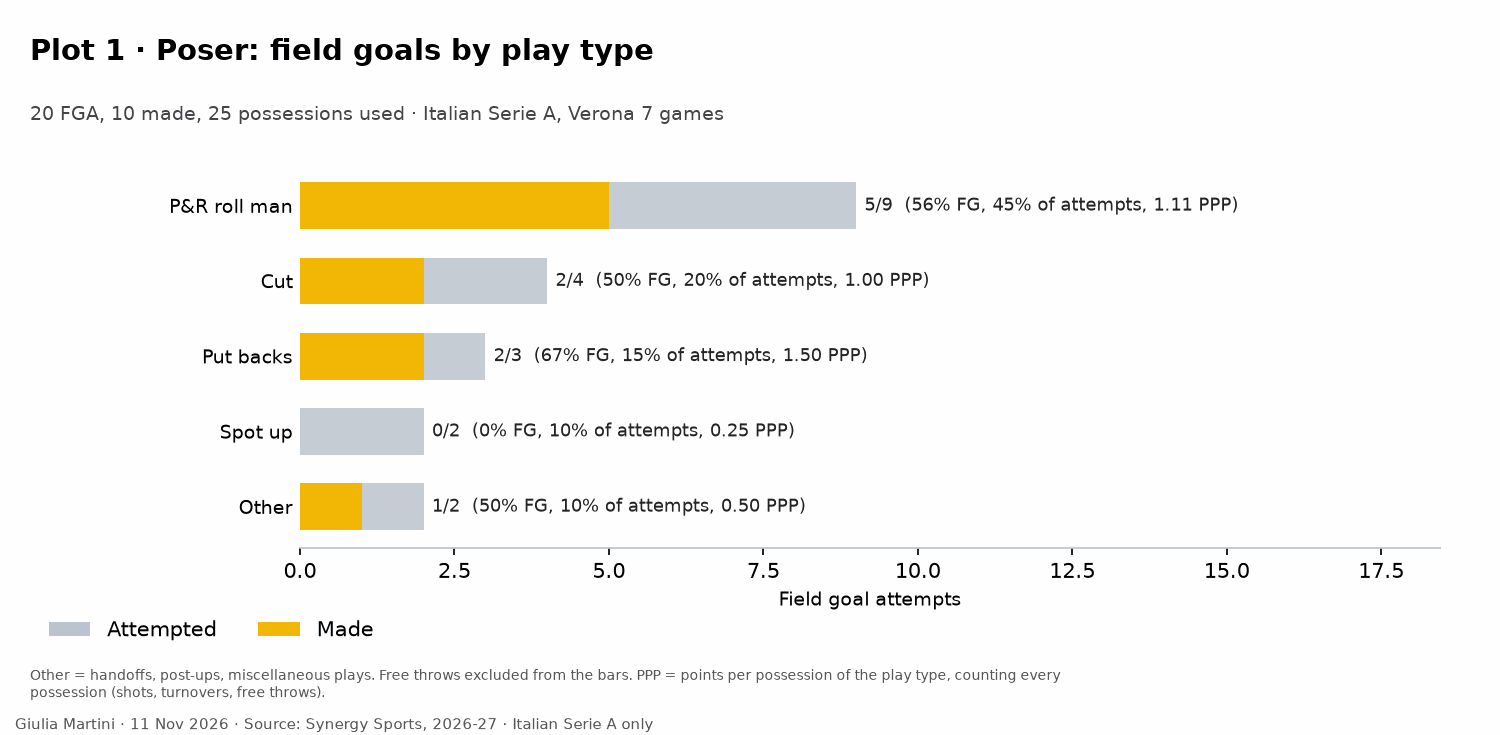
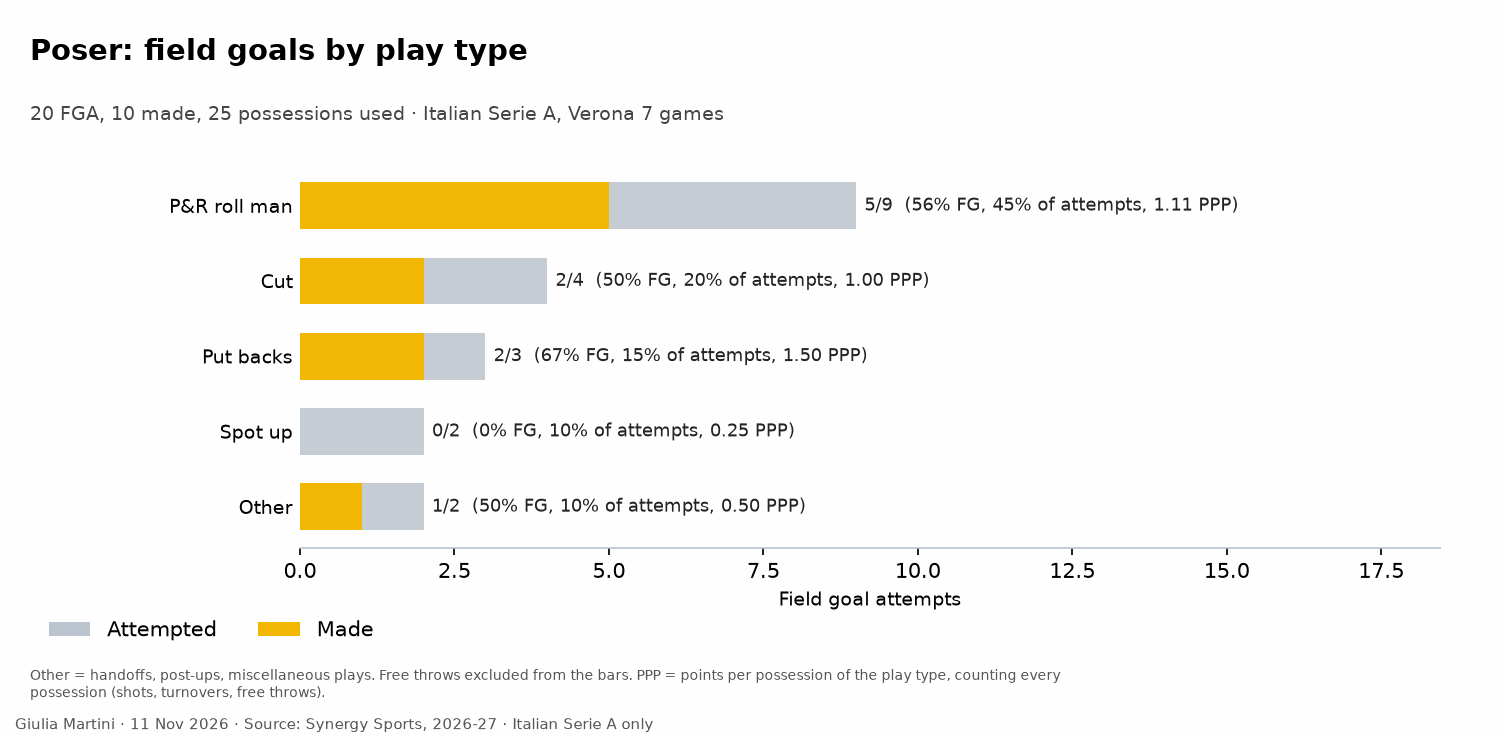
Name the figures instead of numbering them; methodology links above each figure
- Remove "Plot 1" and "Plot 2" from the figure titles, notes, docstrings and pages
- Methodology: a sentence with a link to the Verona page and section above each dummy figure
- opponent-analysis skill: every new figure type gets a Methodology section with links both ways, and no "plot N" naming

Changed region(s): [[0.0307, 0.0299, 0.4293, 0.0898]]

diff --git a/notebooks/synergy_scouting_plots.py b/notebooks/synergy_scouting_plots.py
@@ -12,9 +12,9 @@ the opponent (the team being scouted) is drawn in navy, the reference team (the 
   02   opponent play types run / faced
   03   offensive PPP by play type, reference team vs opponent
   04   opponent players, possessions used vs eFG% (number in bubble = points per game)
-  05   plot 1, one figure per player: FG made/attempted by play type (05_player_<name>_shot_profile.png)
-  05c  plot 2, for the players who together use DEEP_POSS_SHARE of the roster's possessions: shot types within their
-       DEEP_PLAYTYPES main play types (05c_player_<name>_shot_types.png); green, to mark it as the zoom of plot 1
+  05   field goals by play type, one figure per player: FG made/attempted by play type (05_player_<name>_shot_profile.png)
+  05c  shot types within the main play types, for the players who together use DEEP_POSS_SHARE of the roster's possessions: shot types within their
+       DEEP_PLAYTYPES main play types (05c_player_<name>_shot_types.png); green, to mark it as the deeper look at 05
   05b  player radars, percentile rank within the opponent's roster
   06   possessions used by play type, per player
   07   lineups: usage vs points per possession
@@ -58,7 +58,7 @@ from matplotlib.transforms import Bbox
 ROOT = Path(__file__).resolve().parents[1]
 # Colours: this report uses its own two-team scheme (opponent navy, reference yellow), not lba_style's gold.
 YELLOW, NAVY, GREY = '#F2B705', '#1F3A5F', '#8A8F98'
-DEEP = '#2E7D6B'   # plot 2 (the deeper look at plot 1) is green; plot 1 is navy / yellow
+DEEP = '#2E7D6B'   # the shot types figure (05c, the deeper look at 05) is green; 05 is navy / yellow
 SPINE = '#BBBBBB'
 INK, INK_2, INK_3, INK_4, INK_5, INK_6 = '#222', '#333', '#444', '#555', '#666', '#777'   # text greys, dark to light
 LEADER_LINE = '#999'      # leader lines of placed labels
@@ -70,8 +70,8 @@ MIN_PLAYTYPE_POSS = 10      # play types with fewer possessions are left off fig
 MIN_PLAYER_POSS = 20        # players shown in the volume-vs-efficiency scatter (04)
 MIN_RADAR_POSS = 25         # players with a roster-percentile radar (05b)
 MIN_MIX_POSS = 25           # players in the play-type mix bars (06)
-DEEP_POSS_SHARE = 0.80      # plot 2 (05c) is drawn for the fewest players who together use this share of the roster's possessions ...
-OTHER_PLAYTYPES = ('Handoffs', 'Post-Up', 'Miscellaneous Plays')   # Synergy play types that plot 1 groups as 'Other'
+DEEP_POSS_SHARE = 0.80      # the shot types figure (05c) is drawn for the fewest players who together use this share of the roster's possessions ...
+OTHER_PLAYTYPES = ('Handoffs', 'Post-Up', 'Miscellaneous Plays')   # Synergy play types that the play-type figure (05) groups as 'Other'
 DEEP_PLAYTYPES = 2          # ... and covers this many of their play types (the ones with most attempts)
 DEFAULT_LINEUP_MIN_POSS = 5   # default for config 'lineup_min_poss'
 MIN_STYLE_POSS = 10         # lineups shown in the style profile (09)
@@ -392,13 +392,13 @@ def pt_label(play_type: str) -> str:
 
 
 def draw_playtype_bars(ax: Axes, rows: Sequence[tuple], zoom: int = 0) -> None:
-    """Plot 1: made (solid) over attempted (pale) field goals per play type, most attempts on top, with the points per possession in the label.
+    """Field goals by play type: made (solid) over attempted (pale) field goals per play type, most attempts on top, with the points per possession in the label.
 
     Args:
         ax: Axes to draw on.
         rows: ``(play type label, attempts, made)`` or ``(label, attempts, made, points per possession)`` per play type,
             in any order. The PPP, when given, is written at the end of the label.
-        zoom: Number of top play types that plot 2 looks into; their bars get the plot-2 colour edge and a tag.
+        zoom: Number of top play types that the shot types figure looks into; their bars get its colour (green) as edge and label.
     """
     d = sorted(rows, key=lambda r: -r[1])
     total = max(sum(r[1] for r in d), 1)
@@ -431,7 +431,7 @@ def ppp_by_playtype(po: pd.DataFrame, player: str) -> dict[str, float]:
 
 
 def draw_shottype_panel(ax: Axes, rows: Sequence[tuple[str, int, int]], title: str) -> None:
-    """Plot 2 panel: made (dark) over attempted (pale) field goals per shot type within one play type.
+    """Shot types panel: made (dark) over attempted (pale) field goals per shot type within one play type.
 
     Args:
         ax: Axes to draw on.
@@ -460,7 +460,7 @@ def key_players(b: pd.DataFrame) -> list[str]:
 
 
 def plot05(c: Ctx, b: pd.DataFrame) -> None:
-    """Figures 05 and 05c: per player, plot 1 (FG by play type) and, for the key players, plot 2 (shot types of the top play types)."""
+    """Figures 05 and 05c: per player, field goals by play type and, for the key players, shot types within their top play types."""
     # REVIEW: needs Synergy-extracted CSVs (see module docstring); check the data before using the figure.
     zp = c.read('opp_players_fg_by_zone_and_playtype.csv')
     st = c.read('opp_players_shottype_within_playtype.csv')
@@ -488,13 +488,13 @@ def plot05(c: Ctx, b: pd.DataFrame) -> None:
         fig = plt.figure(figsize=(10, height))
         ax = fig.add_axes([.2, 1.25 / height, .76, (height - 2.35) / height])
         draw_playtype_bars(ax, rows, zoom)
-        fig.text(.02, 1 - .4 / height, f'Plot 1 · {p}: field goals by play type', fontsize=14, fontweight='bold', ha='left')
+        fig.text(.02, 1 - .4 / height, f'{p}: field goals by play type', fontsize=14, fontweight='bold', ha='left')
         fig.text(.02, 1 - .8 / height, sub, fontsize=9, color=INK_3)
         fig.legend(handles=[Patch(fc=NAVY, alpha=.3, label='Attempted'), Patch(fc=YELLOW, alpha=.9, label='Made')],
                    loc='lower left', ncol=2, frameon=False, bbox_to_anchor=(.02, .5 / height))
         note = ('Other = handoffs, post-ups, miscellaneous plays. Free throws excluded from the bars. PPP = points per possession of the '
                 'play type, counting every possession (shots, turnovers, free throws).'
-                + (f' Green outline: the {zoom} main play types, detailed in plot 2.' if zoom else ''))
+                + (f' Green outline: the {zoom} main play types, detailed in the shot types figure.' if zoom else ''))
         fig.text(.02, .45 / height, textwrap.fill(note, width=150), fontsize=6.8, color=INK_4, va='top')
         c.foot(fig, f'{c.comp} only')
         c.save(fig, f'05_player_{fname}_shot_profile.png', dpi=150)
@@ -508,9 +508,9 @@ def plot05(c: Ctx, b: pd.DataFrame) -> None:
         for ax, k in zip(axs[0], top):
             d = shot[k]
             draw_shottype_panel(ax, d, f"{pt_label(k[1])}\n({sum(x[1] for x in d)} attempts; made/attempted)")
-        fig.text(.02, .955, f'Plot 2 · {p}: shot types within his main play types', fontsize=14, fontweight='bold', ha='left',
+        fig.text(.02, .955, f'{p}: shot types within his main play types', fontsize=14, fontweight='bold', ha='left',
                  color=DEEP)
-        fig.text(.02, .895, f'Deeper look at plot 1: his {n} play types with most attempts · {sub}', fontsize=9, color=INK_3)
+        fig.text(.02, .895, f'Deeper look at the field goals by play type: his {n} play types with most attempts · {sub}', fontsize=9, color=INK_3)
         fig.legend(handles=[Patch(fc=DEEP, alpha=.3, label='Attempted'), Patch(fc=DEEP, label='Made')],
                    loc='lower left', ncol=2, frameon=False, bbox_to_anchor=(.02, .045))
         fig.text(.02, .03, f"Drawn for the players who together use {DEEP_POSS_SHARE:.0%} of the roster's possessions; small samples.",

diff --git a/notebooks/methodology_figures.py b/notebooks/methodology_figures.py
@@ -4,8 +4,8 @@
 
 Writes into weekly/assets/methodology/ (copied to docs/assets by build_site.py):
   triangle_dummy.png     how to read the shot-selection triangles (tendency_triangles.py)
-  playtype_dummy.png     how to read plot 1, field goals by play type (synergy_scouting_plots.py, 05_player_*)
-  shottype_dummy.png     how to read plot 2, shot types within the main play types (05c_player_*)
+  playtype_dummy.png     how to read the field goals by play type figure (synergy_scouting_plots.py, 05_player_*)
+  shottype_dummy.png     how to read the shot types figure (05c_player_*)
   energy_dummy.png       how to read the energy indices (energy_indices.py)
   energy_build_dummy.png how a score is built from its components and shrunk by minutes
 """
@@ -66,16 +66,16 @@ def triangle(out: Path) -> None:
 
 
 def playtype(out: Path) -> None:
-    """Plot 1 with invented numbers and callouts."""
+    """Field goals by play type, with invented numbers and callouts."""
     fig = plt.figure(figsize=(10, 5.2))
     ax = fig.add_axes([.24, .17, .5, .6])
     ssp.draw_playtype_bars(ax, PLAYTYPES, zoom=2)
-    fig.text(.02, .94, "Plot 1 · Player X: field goals by play type", fontsize=14, fontweight="bold")
+    fig.text(.02, .94, "Player X: field goals by play type", fontsize=14, fontweight="bold")
     fig.text(.02, .89, "Dummy player, 83 field-goal attempts", fontsize=9, color=ssp.INK_3)
     notes = [(.79, .74, "Pale bar = attempts,\nsolid yellow = made"),
              (.79, .60, "Label: made/attempted, FG%\nand share of the player's\nattempts"),
              (.79, .46, "Diamond (top axis): points per\npossession of the play type,\ndotted line = 1.00"),
-             (.79, .30,"Green outline and label: the two\nplay types with most attempts,\nzoomed in plot 2")]
+             (.79, .30,"Green outline and label: the two\nplay types with most attempts,\ndetailed in the shot types figure")]
     for x, y, t in notes:
         fig.text(x, y, t, fontsize=8.5, color=ssp.INK_2, va="center", bbox=dict(boxstyle="round,pad=.4", fc="#F7F7F7", ec="#DDDDDD"))
     fig.text(.02, .04, DUMMY_NOTE + " Rows are sorted by attempts. Free throws are excluded.", **NOTE_KW)
@@ -83,16 +83,16 @@ def playtype(out: Path) -> None:
 
 
 def shottype(out: Path) -> None:
-    """Plot 2 with invented numbers: the zoom on the two main play types of the dummy player."""
+    """Shot types within the two main play types of the dummy player, with invented numbers."""
     fig, axs = plt.subplots(1, 2, figsize=(10, 4.4))
     fig.subplots_adjust(left=.14, right=.97, top=.68, bottom=.22, wspace=1.0)
     for ax, (play, rows) in zip(axs, SHOT_TYPES.items()):
         ssp.draw_shottype_panel(ax, rows, f"{play}\n({sum(r[1] for r in rows)} attempts; made/attempted)")
-    fig.text(.02, .94, "Plot 2 · Player X: shot types within his main play types", fontsize=14, fontweight="bold", color=ssp.DEEP)
-    fig.text(.02, .87, "Deeper look at plot 1: one panel for each of the two play types with the green outline.\n"
-             "Pale bar = attempts, dark bar = made; the shot types add up to the attempts of the play type in plot 1.",
+    fig.text(.02, .94, "Player X: shot types within his main play types", fontsize=14, fontweight="bold", color=ssp.DEEP)
+    fig.text(.02, .87, "Deeper look at the field goals by play type: one panel for each of the two play types with the green outline.\n"
+             "Pale bar = attempts, dark bar = made; the shot types add up to the attempts of the play type in the field goals by play type figure.",
              fontsize=9, color=ssp.INK_3, va="top")
-    fig.text(.02, .04, DUMMY_NOTE + " Plot 2 is drawn only for the players who together use 80% of the roster's possessions.", **NOTE_KW)
+    fig.text(.02, .04, DUMMY_NOTE + " This figure is drawn only for the players who together use 80% of the roster's possessions.", **NOTE_KW)
     fig.savefig(out / "shottype_dummy.png", dpi=150); plt.close(fig)
 
 

diff --git a/weekly/pages/methodology.md b/weekly/pages/methodology.md
@@ -84,27 +84,33 @@ densest 50% (dark) and 80% (light) of the games, so a small area means a stable 
 of all the shots. Source: the league play-by-play (shot coordinates), games before the date of the analysis. Areas need three games
 or more; a player needs three games with three attempts or more.
 
+Shown in [Verona, individual tendencies: shot attempts](../opponent/matchup_BC_Roma_vs_Tezenis_Verona_before_2026-11-14/individual_tendencies.html#shot-attempts-3pt-paint-and-mid-range).
+
 ![How to read the shot-selection triangle (invented data)](../assets/methodology/triangle_dummy.png)
 
-### Plot 1: field goals by play type
+### Field goals by play type
 
 One figure per player, from Synergy. Each bar is a play type (spot up, pick and roll, transition, ...), sorted by attempts: the pale bar
 is the attempts, the yellow bar the made field goals. The label gives made/attempted, FG% and the share of the player's attempts.
 The label ends with the points per possession (PPP) of that play type: points divided by all its possessions, which end in a shot,
 a turnover or free throws, so it is not the same as the FG% of the bar (*Other* pools handoffs, post-ups and miscellaneous plays).
 Free throws are excluded from the bars; *Other* collects handoffs, post-ups and miscellaneous plays. The two play types with most attempts have a
-green outline and a green name: they are the ones detailed in plot 2.
+green outline and a green name: they are the ones detailed in the shot types figure below.
 
-![How to read plot 1 (invented data)](../assets/methodology/playtype_dummy.png)
+Shown in [Verona, individual tendencies: shot charts by player](../opponent/matchup_BC_Roma_vs_Tezenis_Verona_before_2026-11-14/individual_tendencies.html#shot-charts-by-player).
 
-### Plot 2: shot types within the main play types
+![How to read the field goals by play type figure (invented data)](../assets/methodology/playtype_dummy.png)
 
-A deeper look at plot 1, drawn in green so the two are not confused. It exists only for the players who together use 80% of the
+### Shot types within the main play types
+
+A deeper look at the field goals by play type figure above, drawn in green so the two are not confused. It exists only for the players who together use 80% of the
 roster's possessions (players sorted by possessions used, added up until the share reaches 80%), and has one panel for each of the two
-play types with the green outline in plot 1. Each bar is a Synergy shot type (open or guarded three, to the basket, dribble jumper,
-...): pale = attempts, dark = made. The shot types of a panel add up to the attempts of that play type in plot 1.
+play types with the green outline in that figure. Each bar is a Synergy shot type (open or guarded three, to the basket, dribble jumper,
+...): pale = attempts, dark = made. The shot types of a panel add up to the attempts of that play type in the previous figure.
 
-![How to read plot 2 (invented data)](../assets/methodology/shottype_dummy.png)
+Shown right after it in [Verona, individual tendencies: shot charts by player](../opponent/matchup_BC_Roma_vs_Tezenis_Verona_before_2026-11-14/individual_tendencies.html#shot-charts-by-player).
+
+![How to read the shot types figure (invented data)](../assets/methodology/shottype_dummy.png)
 
 Both plots rest on small samples (a handful of games) and on tables extracted by hand from Synergy: read them as descriptive, not as
 a forecast.
@@ -124,7 +130,11 @@ tendencies* page under "Energy". The pictures use invented numbers; they are dra
 - **What the figure shows**: the percentile of the shrunk score among league players (0.5 = league median). Players are sorted by minutes
   played. For a EuroCup opponent the drives and fast-break shots come from the Synergy pull and are scaled on the LBA players.
 
+Shown in [Verona, individual tendencies: energy](../opponent/matchup_BC_Roma_vs_Tezenis_Verona_before_2026-11-14/individual_tendencies.html#energy-rim-activity-and-pace).
+
 ![How to read the energy indices (invented data)](../assets/methodology/energy_dummy.png)
+
+How a score is built, for the figure above:
 
 ![How a high-pace score is built (invented data)](../assets/methodology/energy_build_dummy.png)
 

diff --git a/.claude/skills/opponent-analysis/SKILL.md b/.claude/skills/opponent-analysis/SKILL.md
@@ -37,6 +37,15 @@ Key points (top of each page) are headlines: one line per point, at most one num
 * Same page: `[text](#section-title)`. Other page of the game: `[text](offense_tendencies.html#section-title)`; from a sub-page to the main analysis: `./#section-title`.
 * The anchor is the heading lowercased with spaces and punctuation turned into hyphens (`## Roster, starting five and bench` is `#roster-starting-five-and-bench`). Avoid linking to headings with colons.
 * A link to a heading inside a closed drop-down opens it. After building, check that every `#anchor` exists (see 5).
+* **Every figure type that needs explaining has a section in the Methodology page** (`weekly/pages/methodology.md`): what it shows, how it is
+  built, how to read it, with a picture drawn with invented (dummy) data by `notebooks/methodology_figures.py`, using the same drawing
+  functions as the real figure. Two links, both ways:
+  * on the analysis page, the text that introduces the figure ends with a link to that Methodology section (`../../methodology/#anchor`
+    from `docs/opponent/<folder>/`);
+  * in the Methodology section, **just above each dummy figure, one short sentence with a link to the analysis page and section where
+    the real figure is shown** (`../opponent/<folder>/<page>.html#section`; use the latest analysis that has the figure).
+  Do this for every new figure or index of every future analysis, and give the figures their descriptive names: never "plot 1" or
+  "plot 2" (in titles, notes, text or code comments).
 
 ## 4. Writing the numbers
 

diff --git a/weekly/games/2026-11-14/individual_tendencies.md b/weekly/games/2026-11-14/individual_tendencies.md
@@ -56,7 +56,7 @@ How the shot attempts of each game split between threes, paint and mid-range ([h
 
 ## Shot charts by player
 
-Zone shot charts, then for each player plot 1 (field goals by play type) and, for the players who together use 80% of the possessions, plot 2 (green: shot types within his two main play types). [How to read plots 1 and 2](../../methodology/#reading-the-shot-selection-triangles-and-the-play-type-plots). Team zone totals: see the shot selection section of the analysis page.
+Zone shot charts, then for each player the field goals by play type and, for the players who together use 80% of the possessions, a green figure with the shot types within his two main play types. [How to read these figures](../../methodology/#reading-the-shot-selection-triangles-and-the-play-type-plots). Team zone totals: see the shot selection section of the analysis page.
 
 <!-- more -->
 
